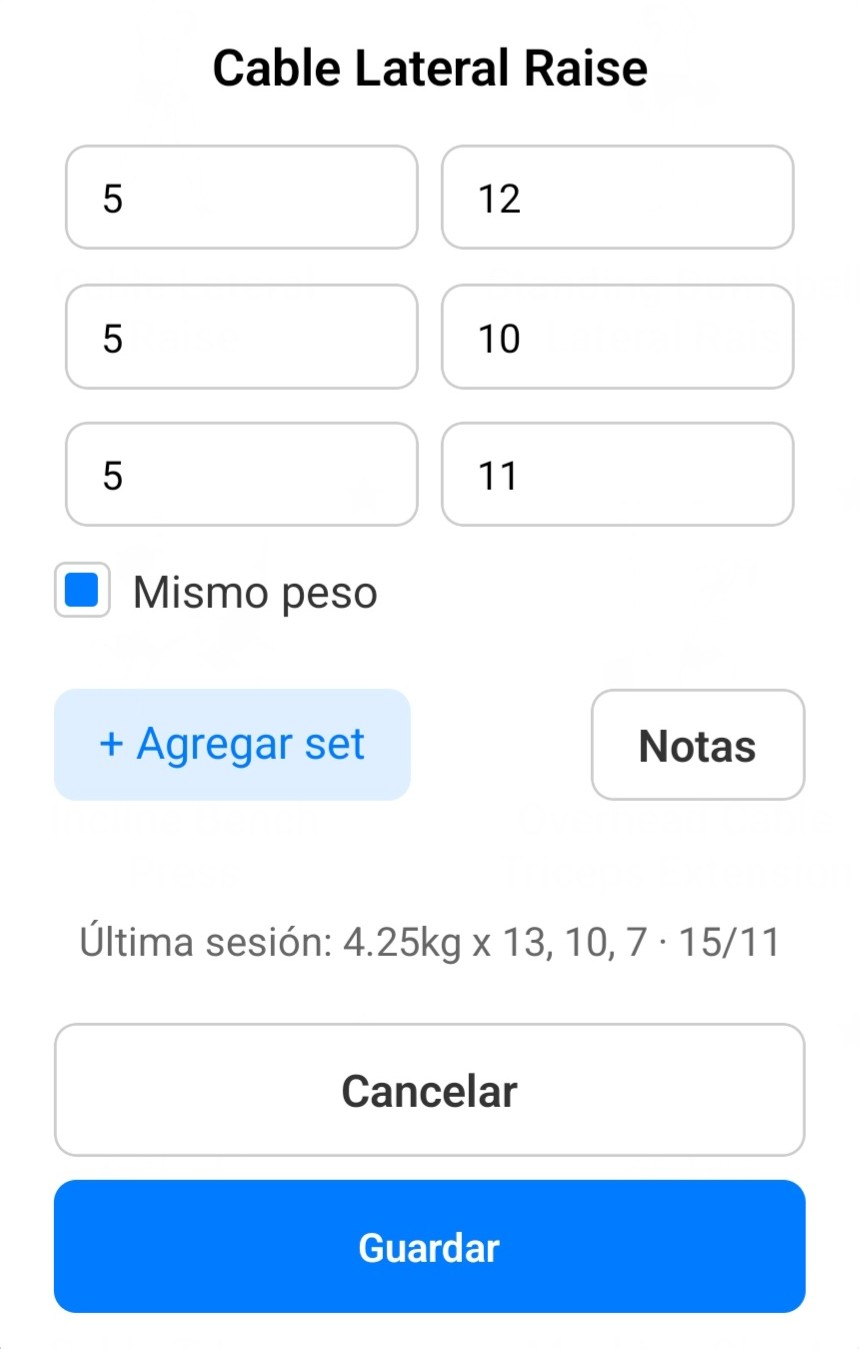
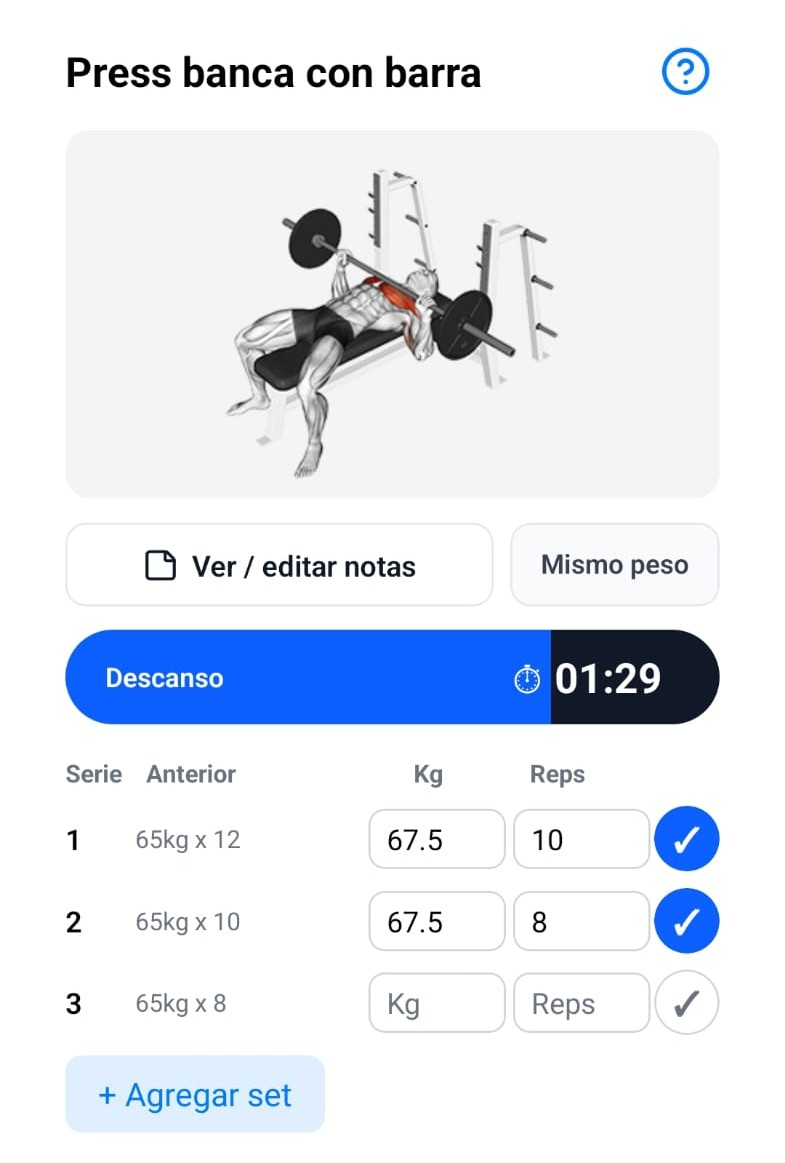
Ajustes menores

diff --git a/components/exerciseSelection/ExerciseSetEditor.tsx b/components/exerciseSelection/ExerciseSetEditor.tsx
@@ -9,7 +9,8 @@ import {
 	KeyboardAvoidingView,
 	Platform,
 	Keyboard,
-	Modal
+	Modal,
+	AppState
 } from 'react-native';
 import { setEditorStyles } from './styles';
 import { exerciseImageUrls } from '../common/allExercisesImages';
@@ -63,6 +64,8 @@ const ExerciseSetEditor: React.FC<Props> = ({
 
 	const [restRemaining, setRestRemaining] = useState<number | null>(null);
 	const restIntervalRef = useRef<NodeJS.Timeout | null>(null);
+	const restEndTimeRef = useRef<number | null>(null);
+	const appStateRef = useRef(AppState.currentState);
 
 	const [isKeyboardVisible, setIsKeyboardVisible] = useState(false);
 
@@ -94,7 +97,46 @@ const ExerciseSetEditor: React.FC<Props> = ({
 	// limpiar intervalo al desmontar
 	useEffect(() => {
 		return () => {
-			if (restIntervalRef.current) clearInterval(restIntervalRef.current);
+			if (restIntervalRef.current) {
+				clearInterval(restIntervalRef.current);
+				restIntervalRef.current = null;
+			}
+			restEndTimeRef.current = null;
+		};
+	}, []);
+
+	// Recalcular el descanso cuando la app vuelve a estar activa
+	useEffect(() => {
+		const sub = AppState.addEventListener('change', nextState => {
+			const prevState = appStateRef.current;
+			appStateRef.current = nextState;
+
+			// Cuando pasamos de background/inactive a active
+			if (
+				(prevState === 'background' || prevState === 'inactive') &&
+				nextState === 'active'
+			) {
+				if (restEndTimeRef.current != null) {
+					const diffMs = restEndTimeRef.current - Date.now();
+					const remaining = Math.max(0, Math.round(diffMs / 1000));
+
+					if (remaining <= 0) {
+						// Descanso terminado mientras la app estaba en background
+						if (restIntervalRef.current) {
+							clearInterval(restIntervalRef.current);
+							restIntervalRef.current = null;
+						}
+						restEndTimeRef.current = null;
+						setRestRemaining(null);
+					} else {
+						setRestRemaining(remaining);
+					}
+				}
+			}
+		});
+
+		return () => {
+			sub.remove();
 		};
 	}, []);
 
@@ -125,18 +167,41 @@ const ExerciseSetEditor: React.FC<Props> = ({
 	const startRest = () => {
 		if (restSeconds <= 0) return;
 
-		if (restIntervalRef.current) clearInterval(restIntervalRef.current);
-		setRestRemaining(restSeconds);
+		// Limpiar cualquier intervalo previo
+		if (restIntervalRef.current) {
+			clearInterval(restIntervalRef.current);
+			restIntervalRef.current = null;
+		}
 
+		// Calculamos el "deadline" absoluto del descanso
+		const endAt = Date.now() + restSeconds * 1000;
+		restEndTimeRef.current = endAt;
+
+		// Func helper para calcular segundos restantes
+		const computeRemaining = () => {
+			if (restEndTimeRef.current == null) return null;
+			const diffMs = restEndTimeRef.current - Date.now();
+			const remaining = Math.max(0, Math.round(diffMs / 1000));
+			return remaining;
+		};
+
+		// Seteo inicial
+		const firstRemaining = computeRemaining();
+		setRestRemaining(firstRemaining);
+
+		// Intervalo que solo recalcula en base al timestamp
 		const id = setInterval(() => {
-			setRestRemaining(prev => {
-				if (prev == null) return prev;
-				if (prev <= 1) {
-					clearInterval(id);
-					return 0;
-				}
-				return prev - 1;
-			});
+			const remaining = computeRemaining();
+			if (remaining == null) return;
+
+			if (remaining <= 0) {
+				clearInterval(id);
+				restIntervalRef.current = null;
+				restEndTimeRef.current = null;
+				setRestRemaining(null);
+			} else {
+				setRestRemaining(remaining);
+			}
 		}, 1000);
 
 		restIntervalRef.current = id;
@@ -241,7 +306,6 @@ const ExerciseSetEditor: React.FC<Props> = ({
 		<KeyboardAvoidingView
 			style={setEditorStyles.editorContainer}
 			behavior={Platform.OS === 'ios' ? 'padding' : 'height'}
-			keyboardVerticalOffset={Platform.OS === 'ios' ? 16 : 0}
 		>
 			{/* Contenido scrolleable */}
 			<ScrollView

diff --git a/components/workouts/workoutExerciseSelection/WorkoutExerciseSelection.tsx b/components/workouts/workoutExerciseSelection/WorkoutExerciseSelection.tsx
@@ -163,7 +163,7 @@ export default function WorkoutExerciseSelectionScreen() {
 					const isSelected = selectedMuscleGroup === group;
 
 					return (
-						<TouchableOpacity key={group} style={[styles.muscleFilterItem, isSelected && styles.muscleFilterItemSelected,]} onPress={() => handleMuscleGroupPress(group)}>
+						<TouchableOpacity key={group} style={styles.muscleFilterItem} onPress={() => handleMuscleGroupPress(group)}>
 							<Image source={muscleGroupImages[group]} style={[styles.muscleFilterImage, isSelected && styles.muscleFilterImageSelected,]} />
 							<Text style={[styles.muscleFilterLabel, isSelected && styles.muscleFilterLabelSelected,]}>
 								{getMuscleGroupLabelEs(group)}

diff --git a/components/onBoarding/steps/StepReady.tsx b/components/onBoarding/steps/StepReady.tsx
@@ -119,7 +119,7 @@ const readyStyles = StyleSheet.create({
   card: {
     width: '100%',
     maxWidth: 360,
-	height: 500,
+	minHeight: 500,
     borderRadius: 24,
     paddingVertical: 32,
     paddingHorizontal: 24,

diff --git a/components/workouts/workoutExerciseSelection/styles.ts b/components/workouts/workoutExerciseSelection/styles.ts
@@ -128,9 +128,6 @@ modalOverlay: {
  marginRight: 12,
  alignItems: 'center',
  },
- muscleFilterItemSelected: {
- transform: [{ scale: 1.03 }],
- },
  muscleFilterImage: {
  width: 72,
  height: 72,
